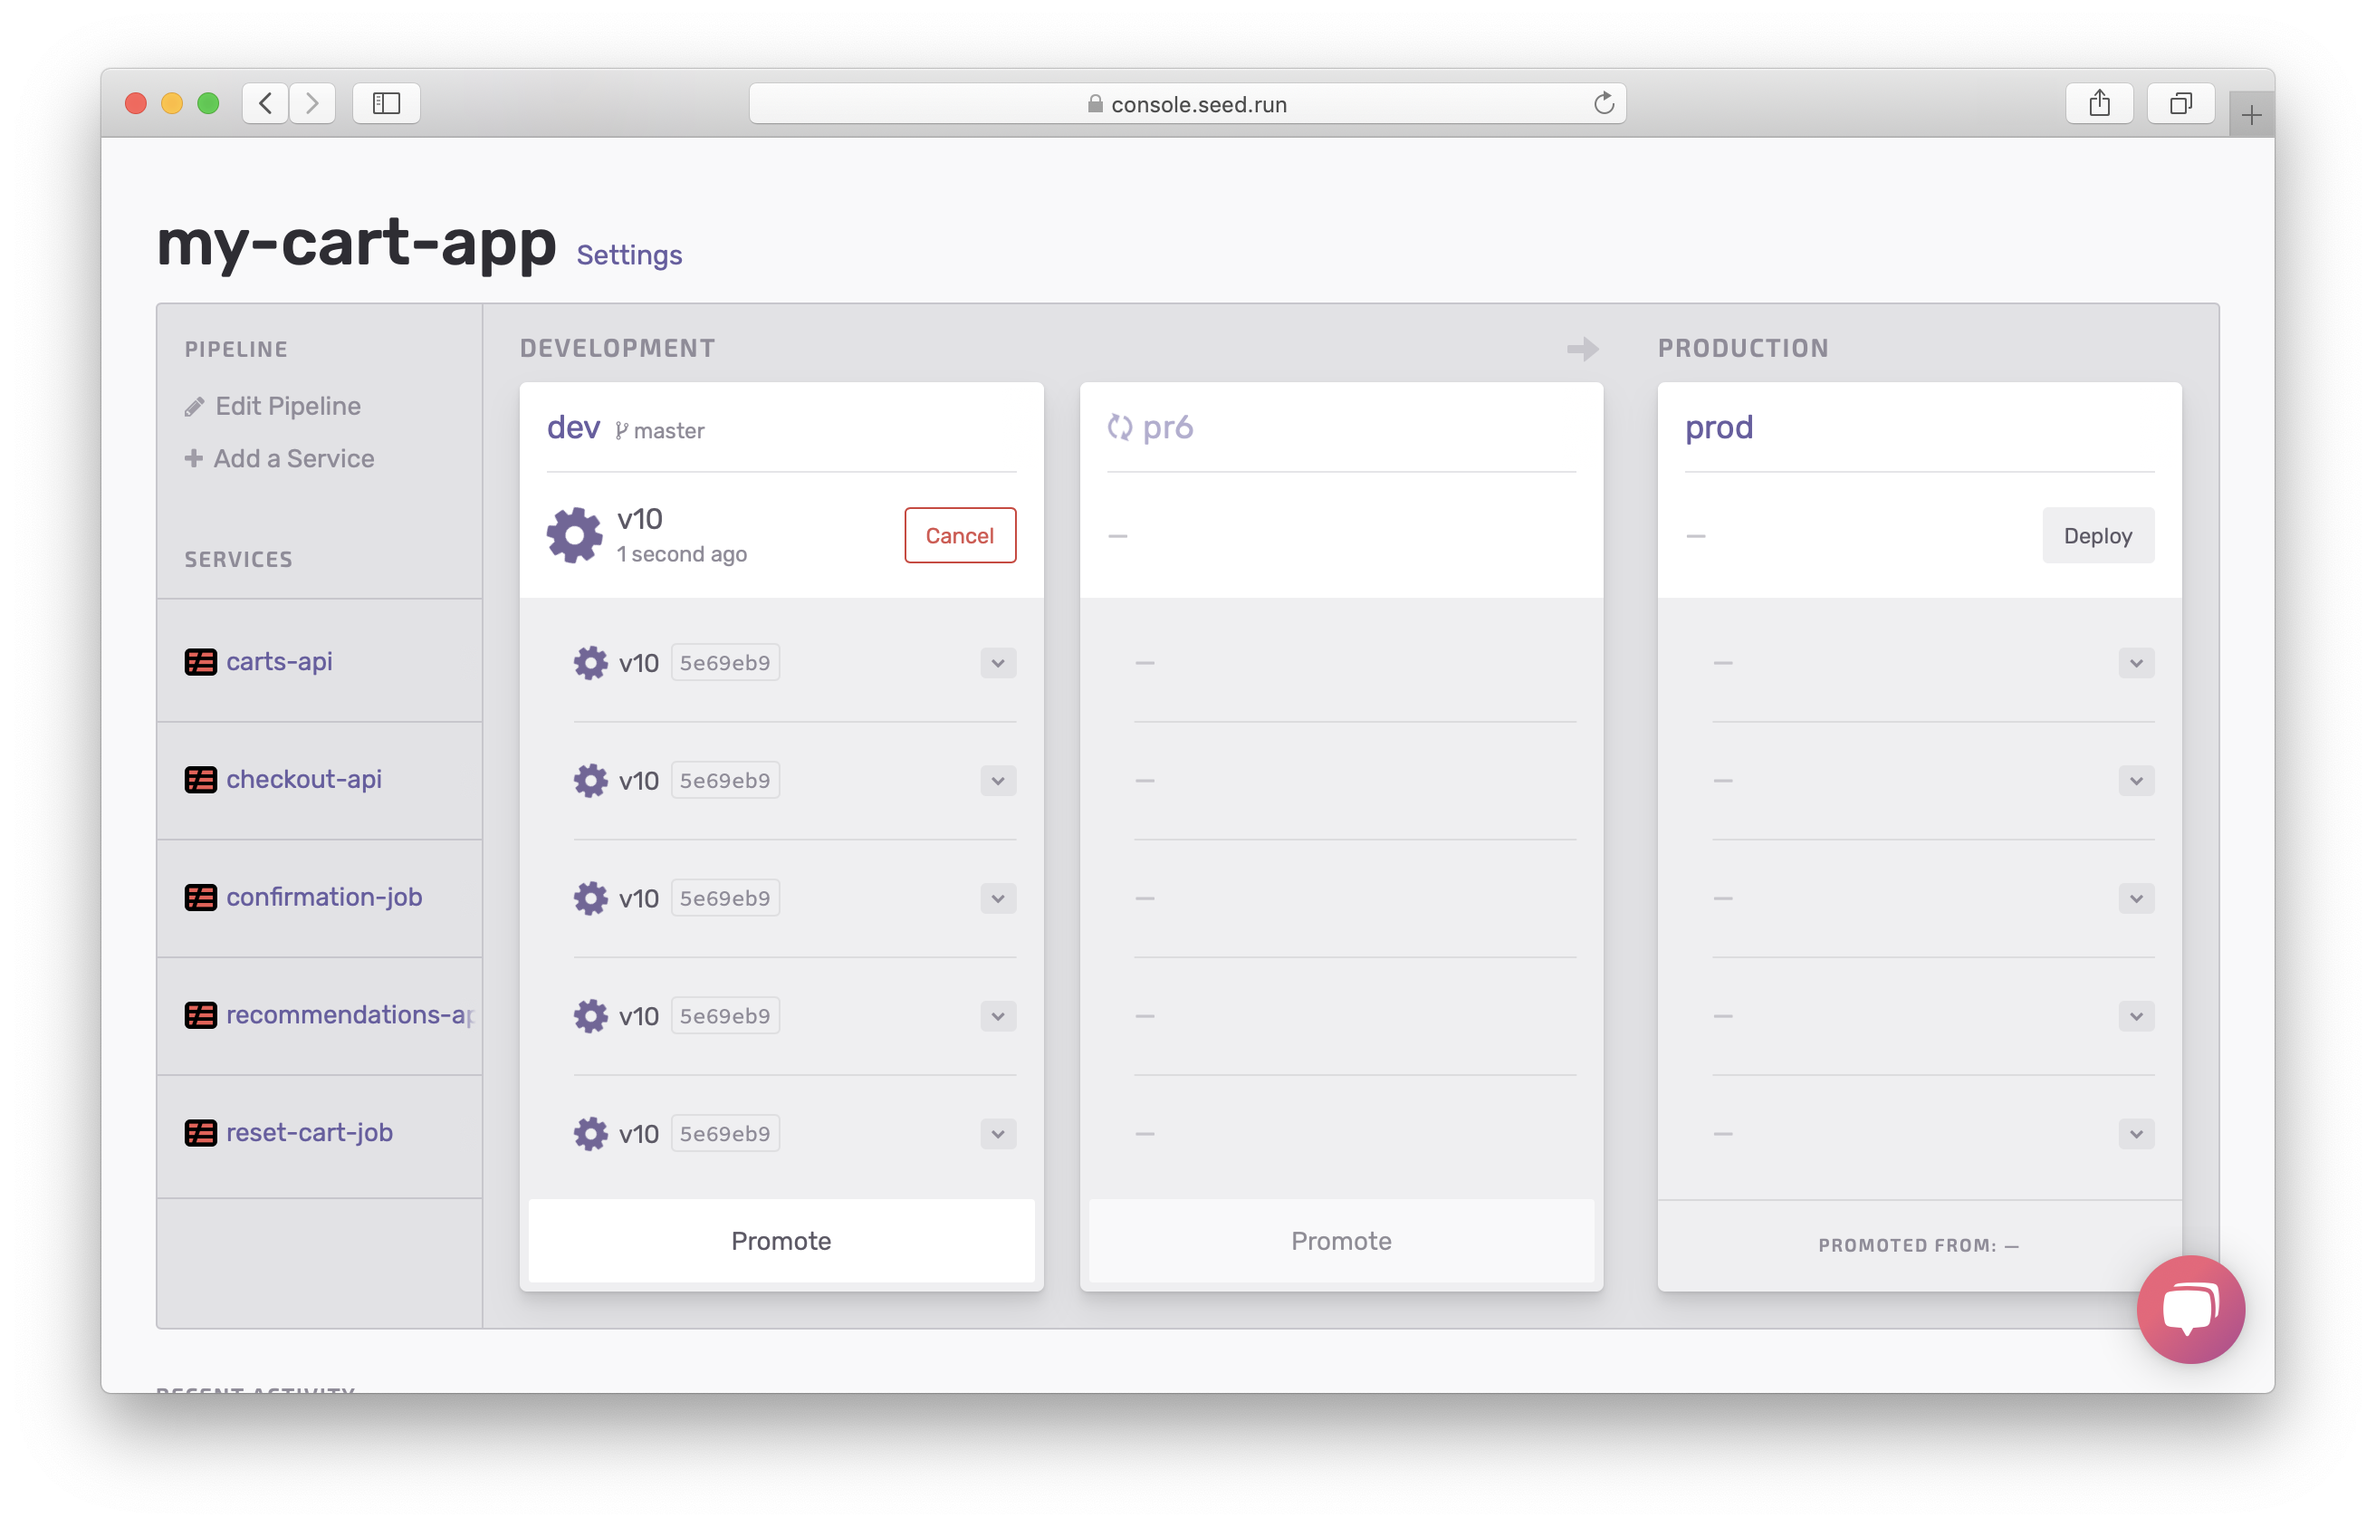
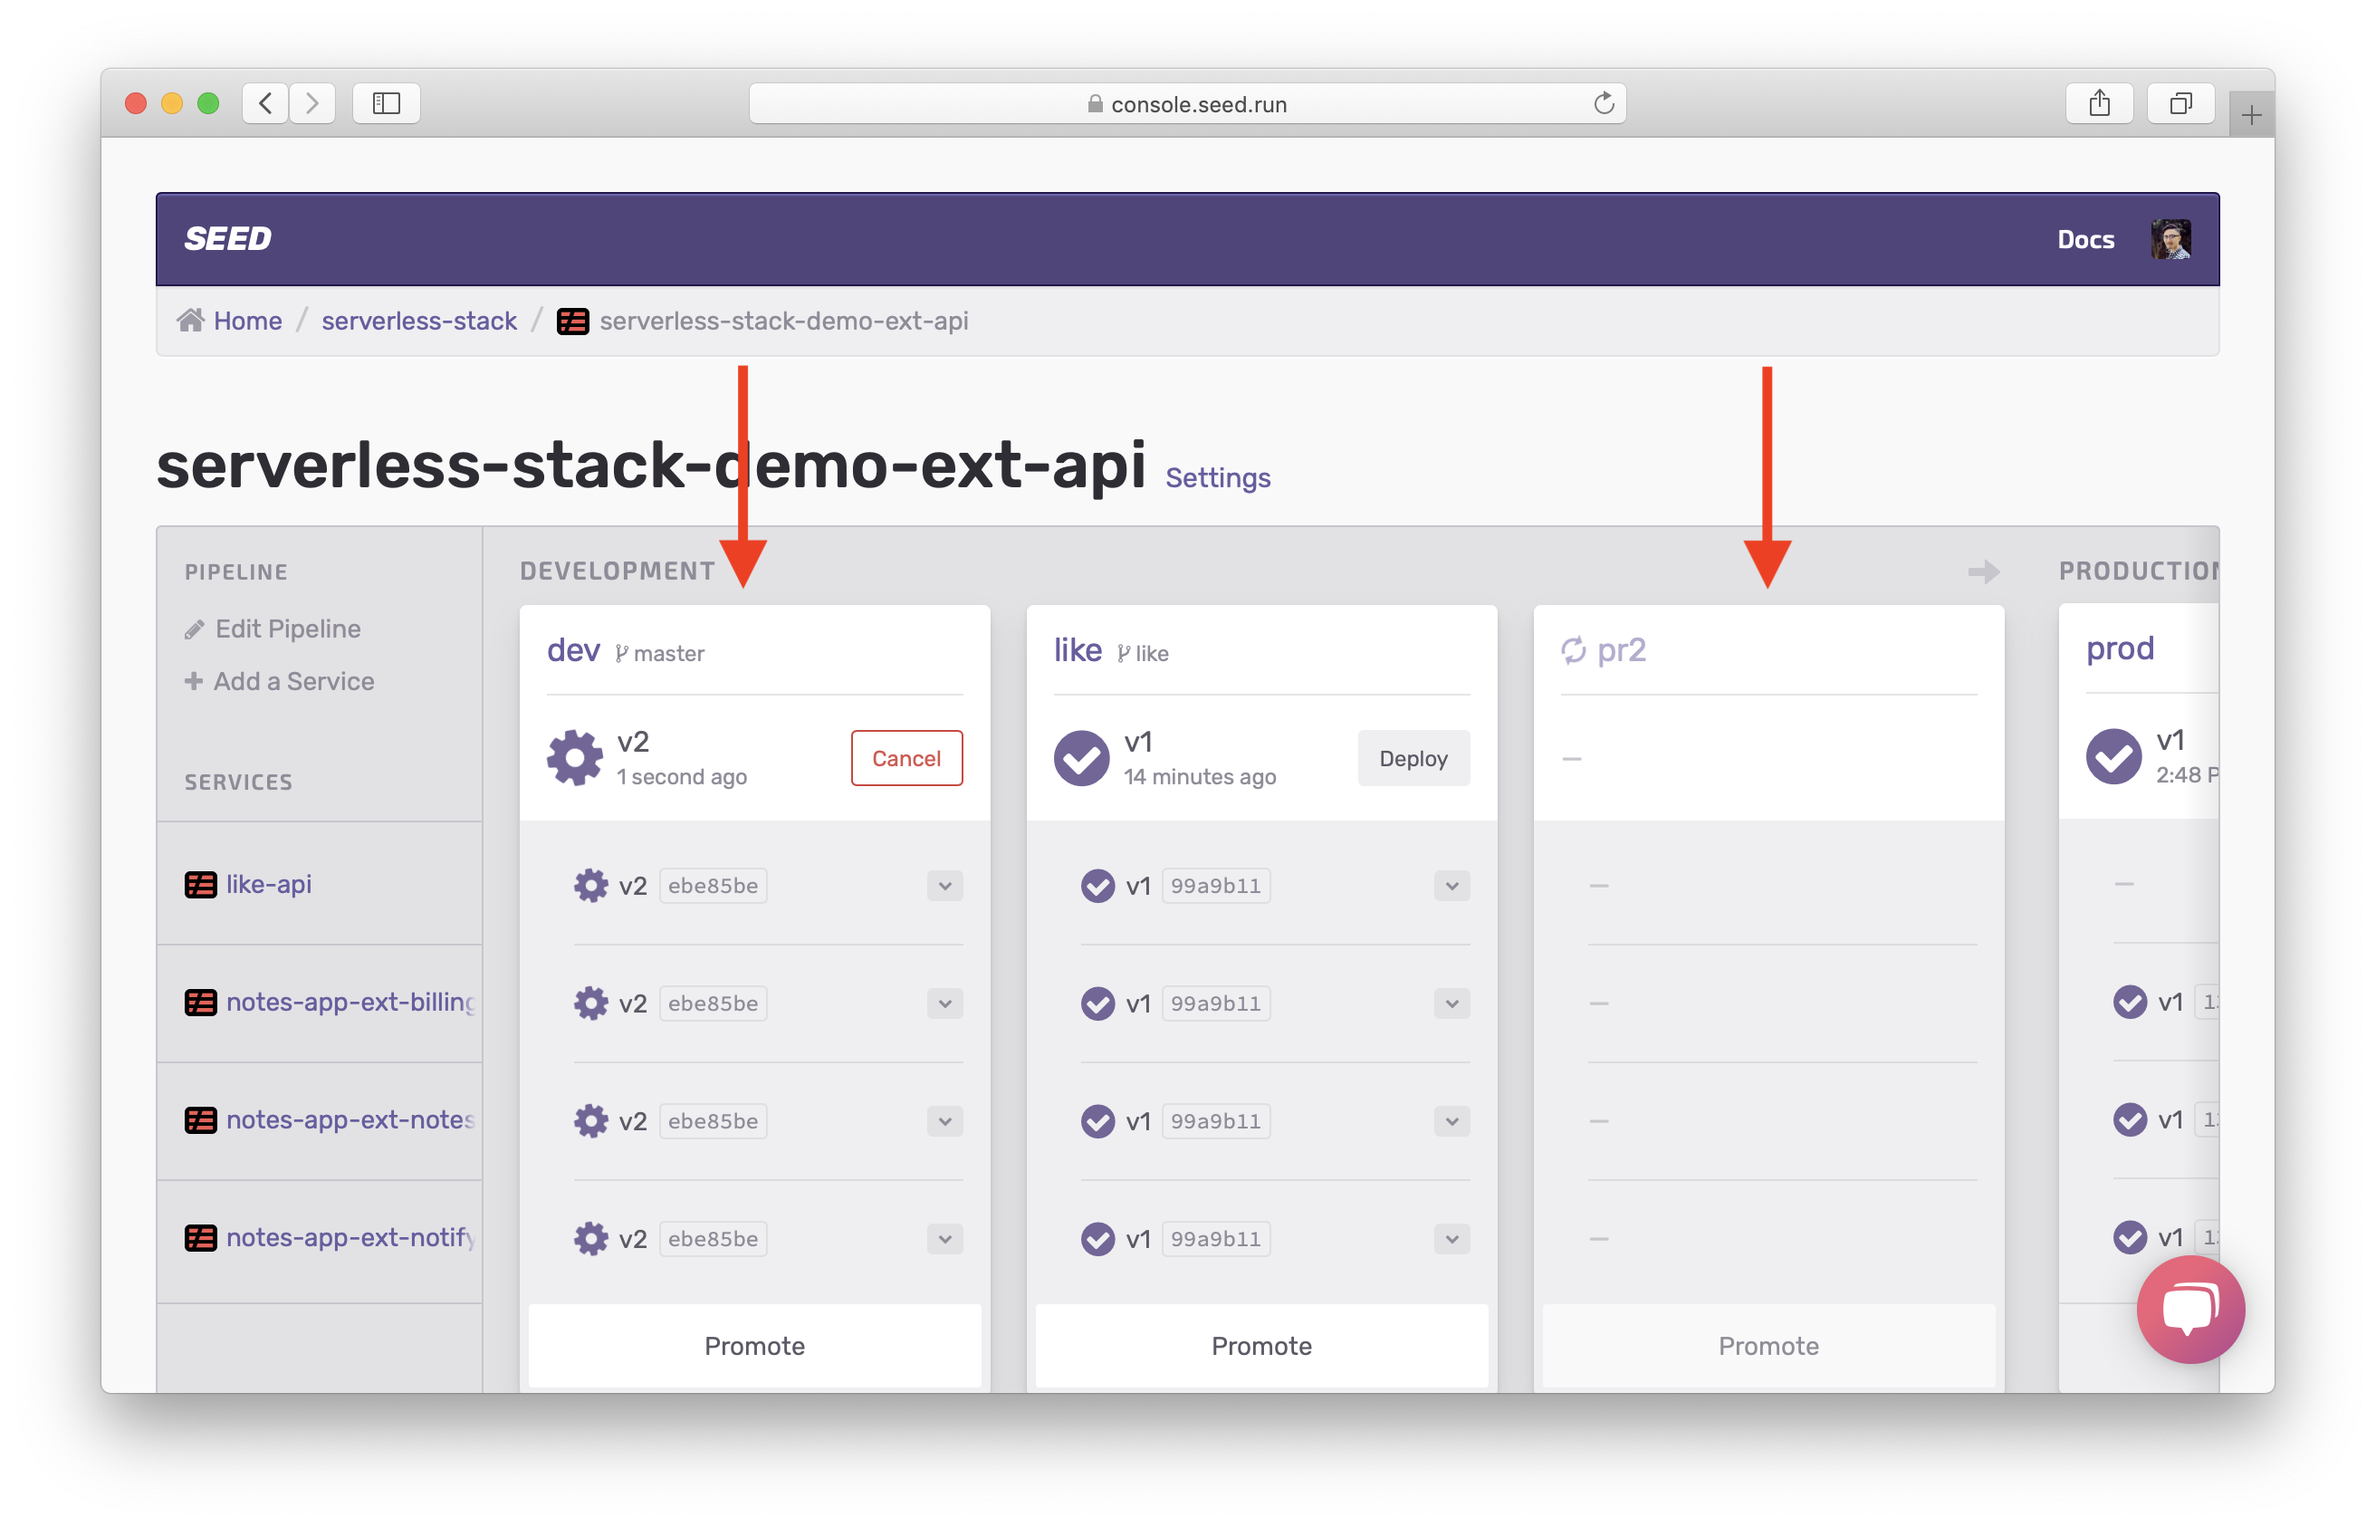
Add screenshots

diff --git a/_chapters/creating-pull-request-environments.md b/_chapters/creating-pull-request-environments.md
@@ -34,14 +34,14 @@ Select **Create pull request**.
 
 ![](/assets/best-practices/creating-pr-5.png)
 
-Now go back to Seed, a new stage **pr6** is created and is being deployed automatically.
+Now go back to Seed, a new stage **pr2** is created and is being deployed automatically.
 
 ![](/assets/best-practices/creating-pr-6.png)
 
-After `pr6` stage successfully deploys, you can see the deployed API endpoint on the PR page. You can give the endpoint to your frontend team for testing.
+After `pr2` stage successfully deploys, you can see the deployed API endpoint on the PR page. You can give the endpoint to your frontend team for testing.
 
 ![](/assets/best-practices/creating-pr-7.png)
 
-You can also access the `pr6` stage and the upstream `like` stage on Seed via the **View deployment** button. And you can see the deployment status for each service under **checks**.
+You can also access the `pr2` stage and the upstream `like` stage on Seed via the **View deployment** button. And you can see the deployment status for each service under **checks**.
 
 ![](/assets/best-practices/creating-pr-8.png)

diff --git a/_chapters/merging-to-master.md b/_chapters/merging-to-master.md
@@ -16,10 +16,10 @@ Once final test looks good, merge the pull request. Go to GitHub's pr page and s
 
 ![](/assets/best-practices/merging-to-master-1.png)
 
-Go back to Seed, this will trigger a deployment in the `dev` stage automatically, since the stage auto-deploys changes in the `master` branch. Also, since by merging the pull request, the pull request is closed. This automatically removes the `pr6` stage.
+Go back to Seed, this will trigger a deployment in the `dev` stage automatically, since the stage auto-deploys changes in the `master` branch. Also, since by merging the pull request, the pull request is closed. This automatically removes the `pr2` stage.
 
 ![](/assets/best-practices/merging-to-master-2.png)
 
-After the deployment completes and the `pr6` stage is removed, the pipeline looks like
+After the deployment completes and the `pr2` stage is removed, the pipeline looks like
 
 ![](/assets/best-practices/merging-to-master-3.png)
